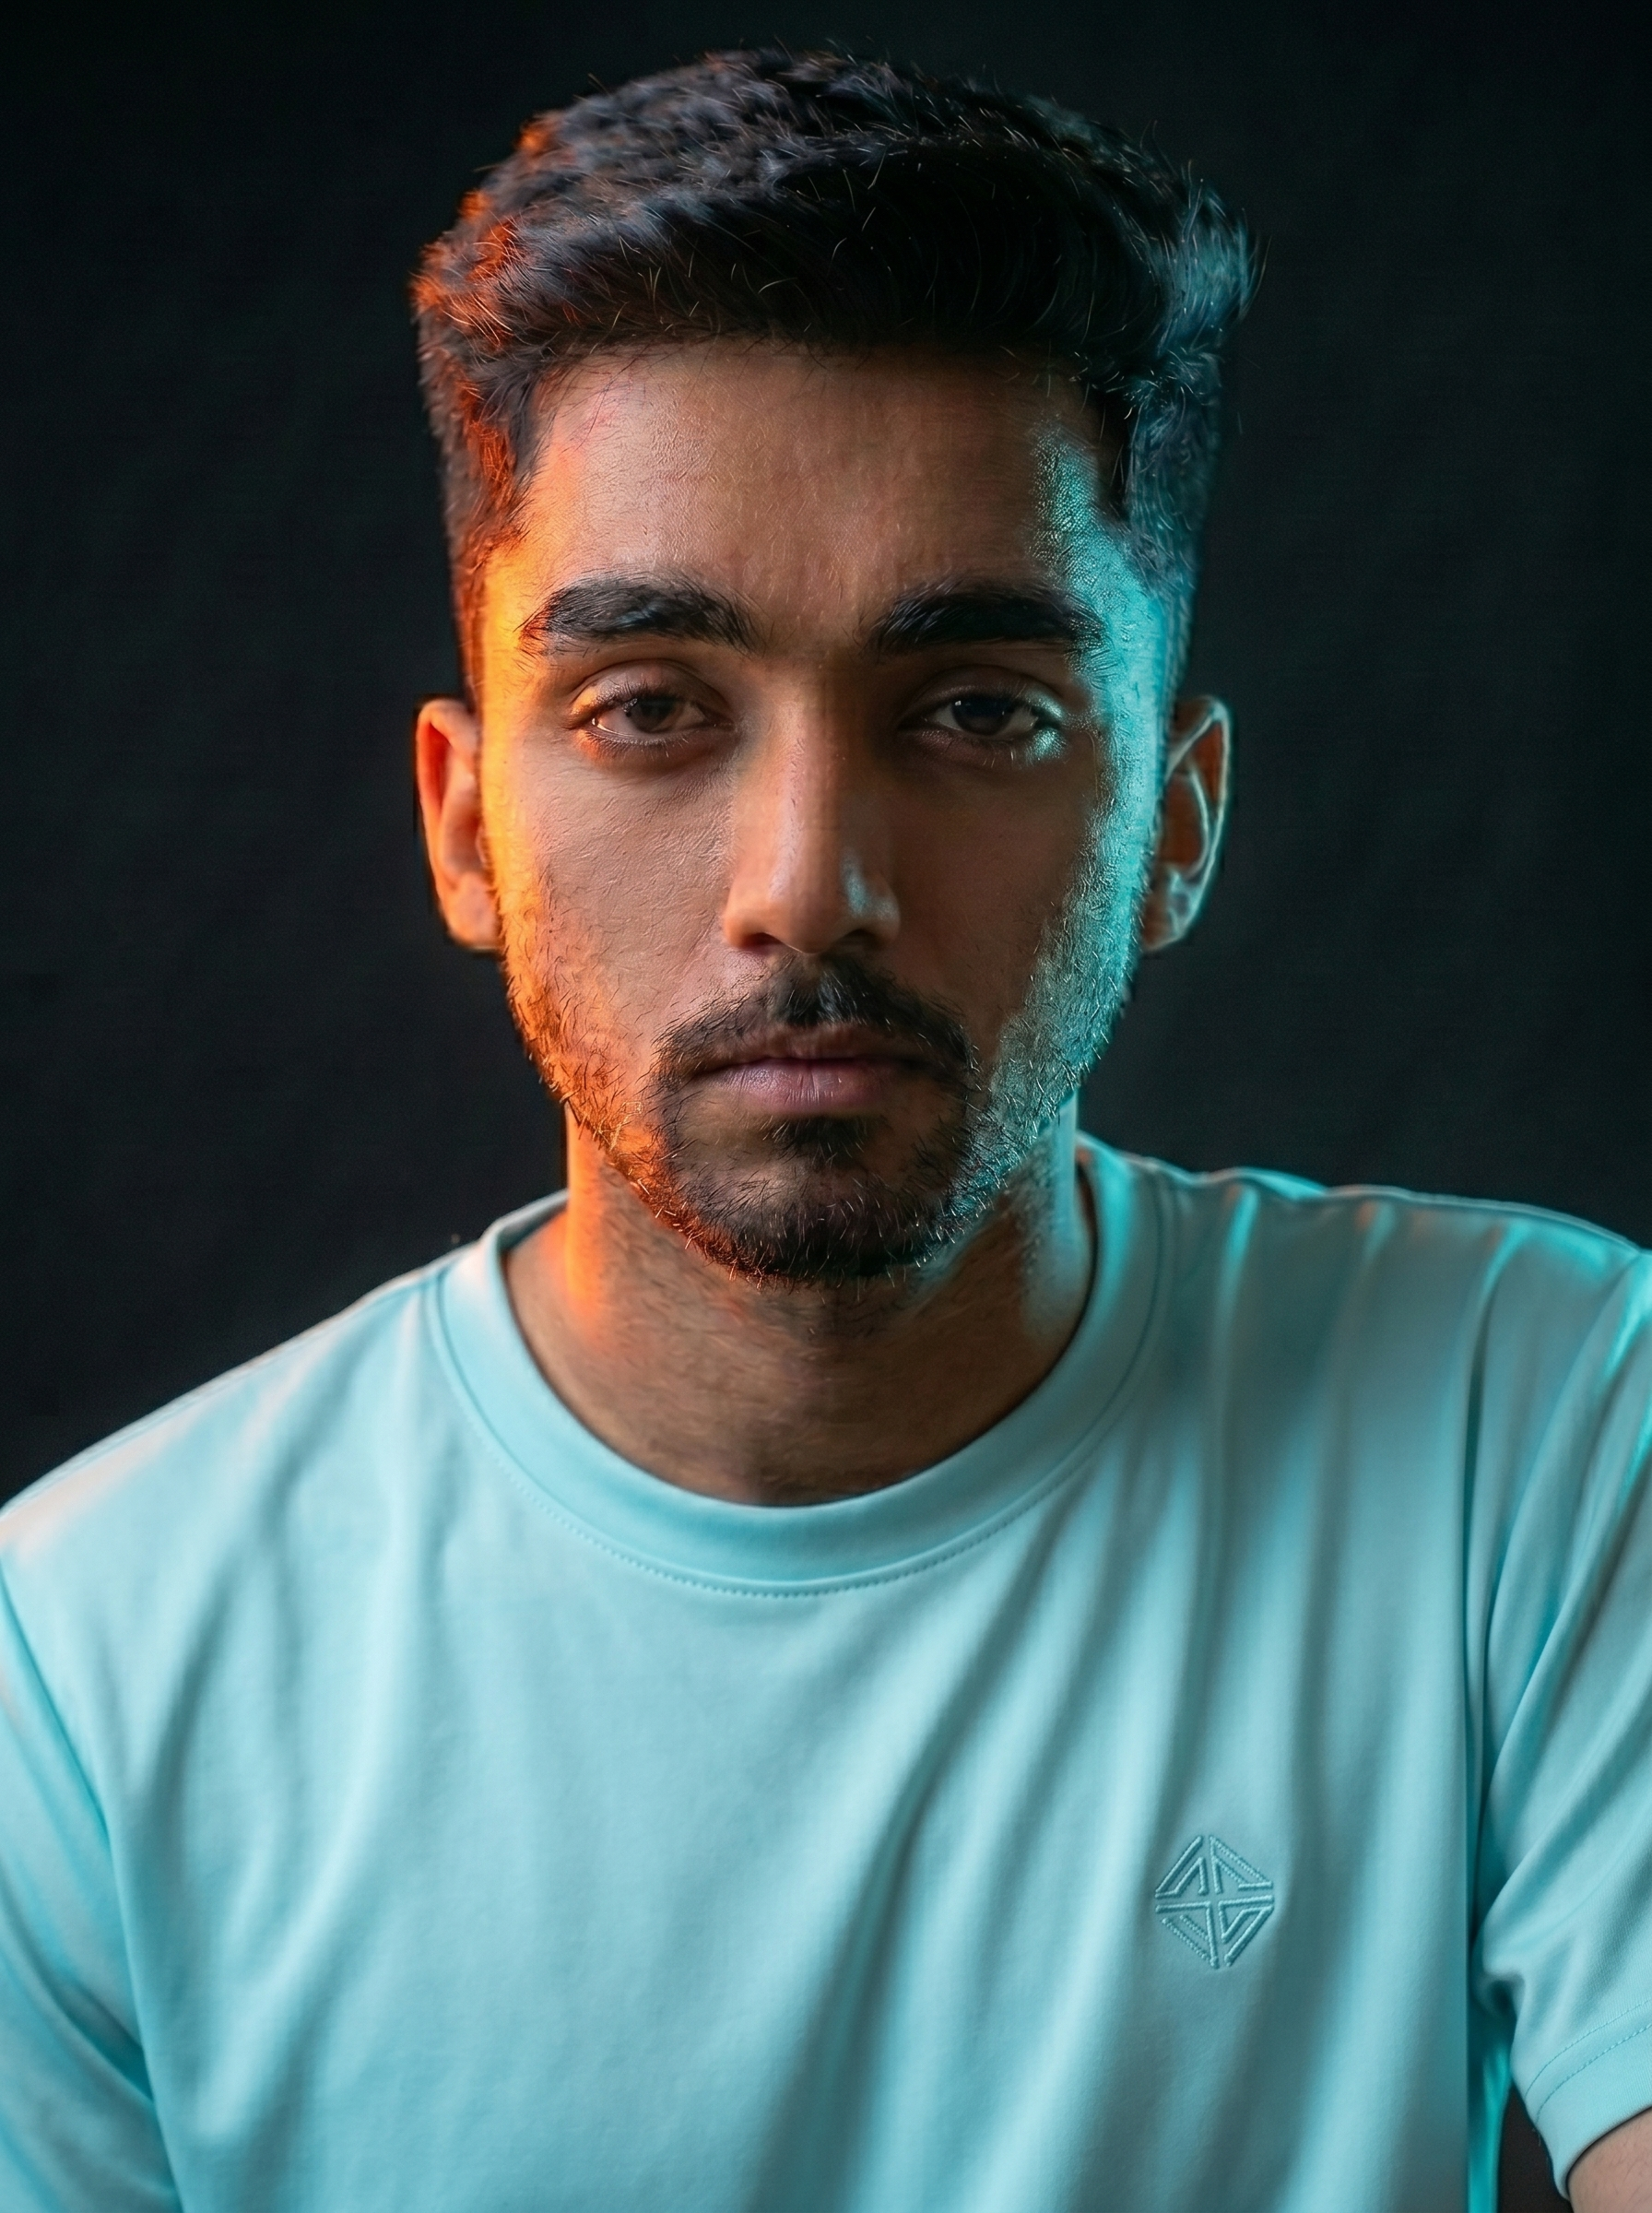
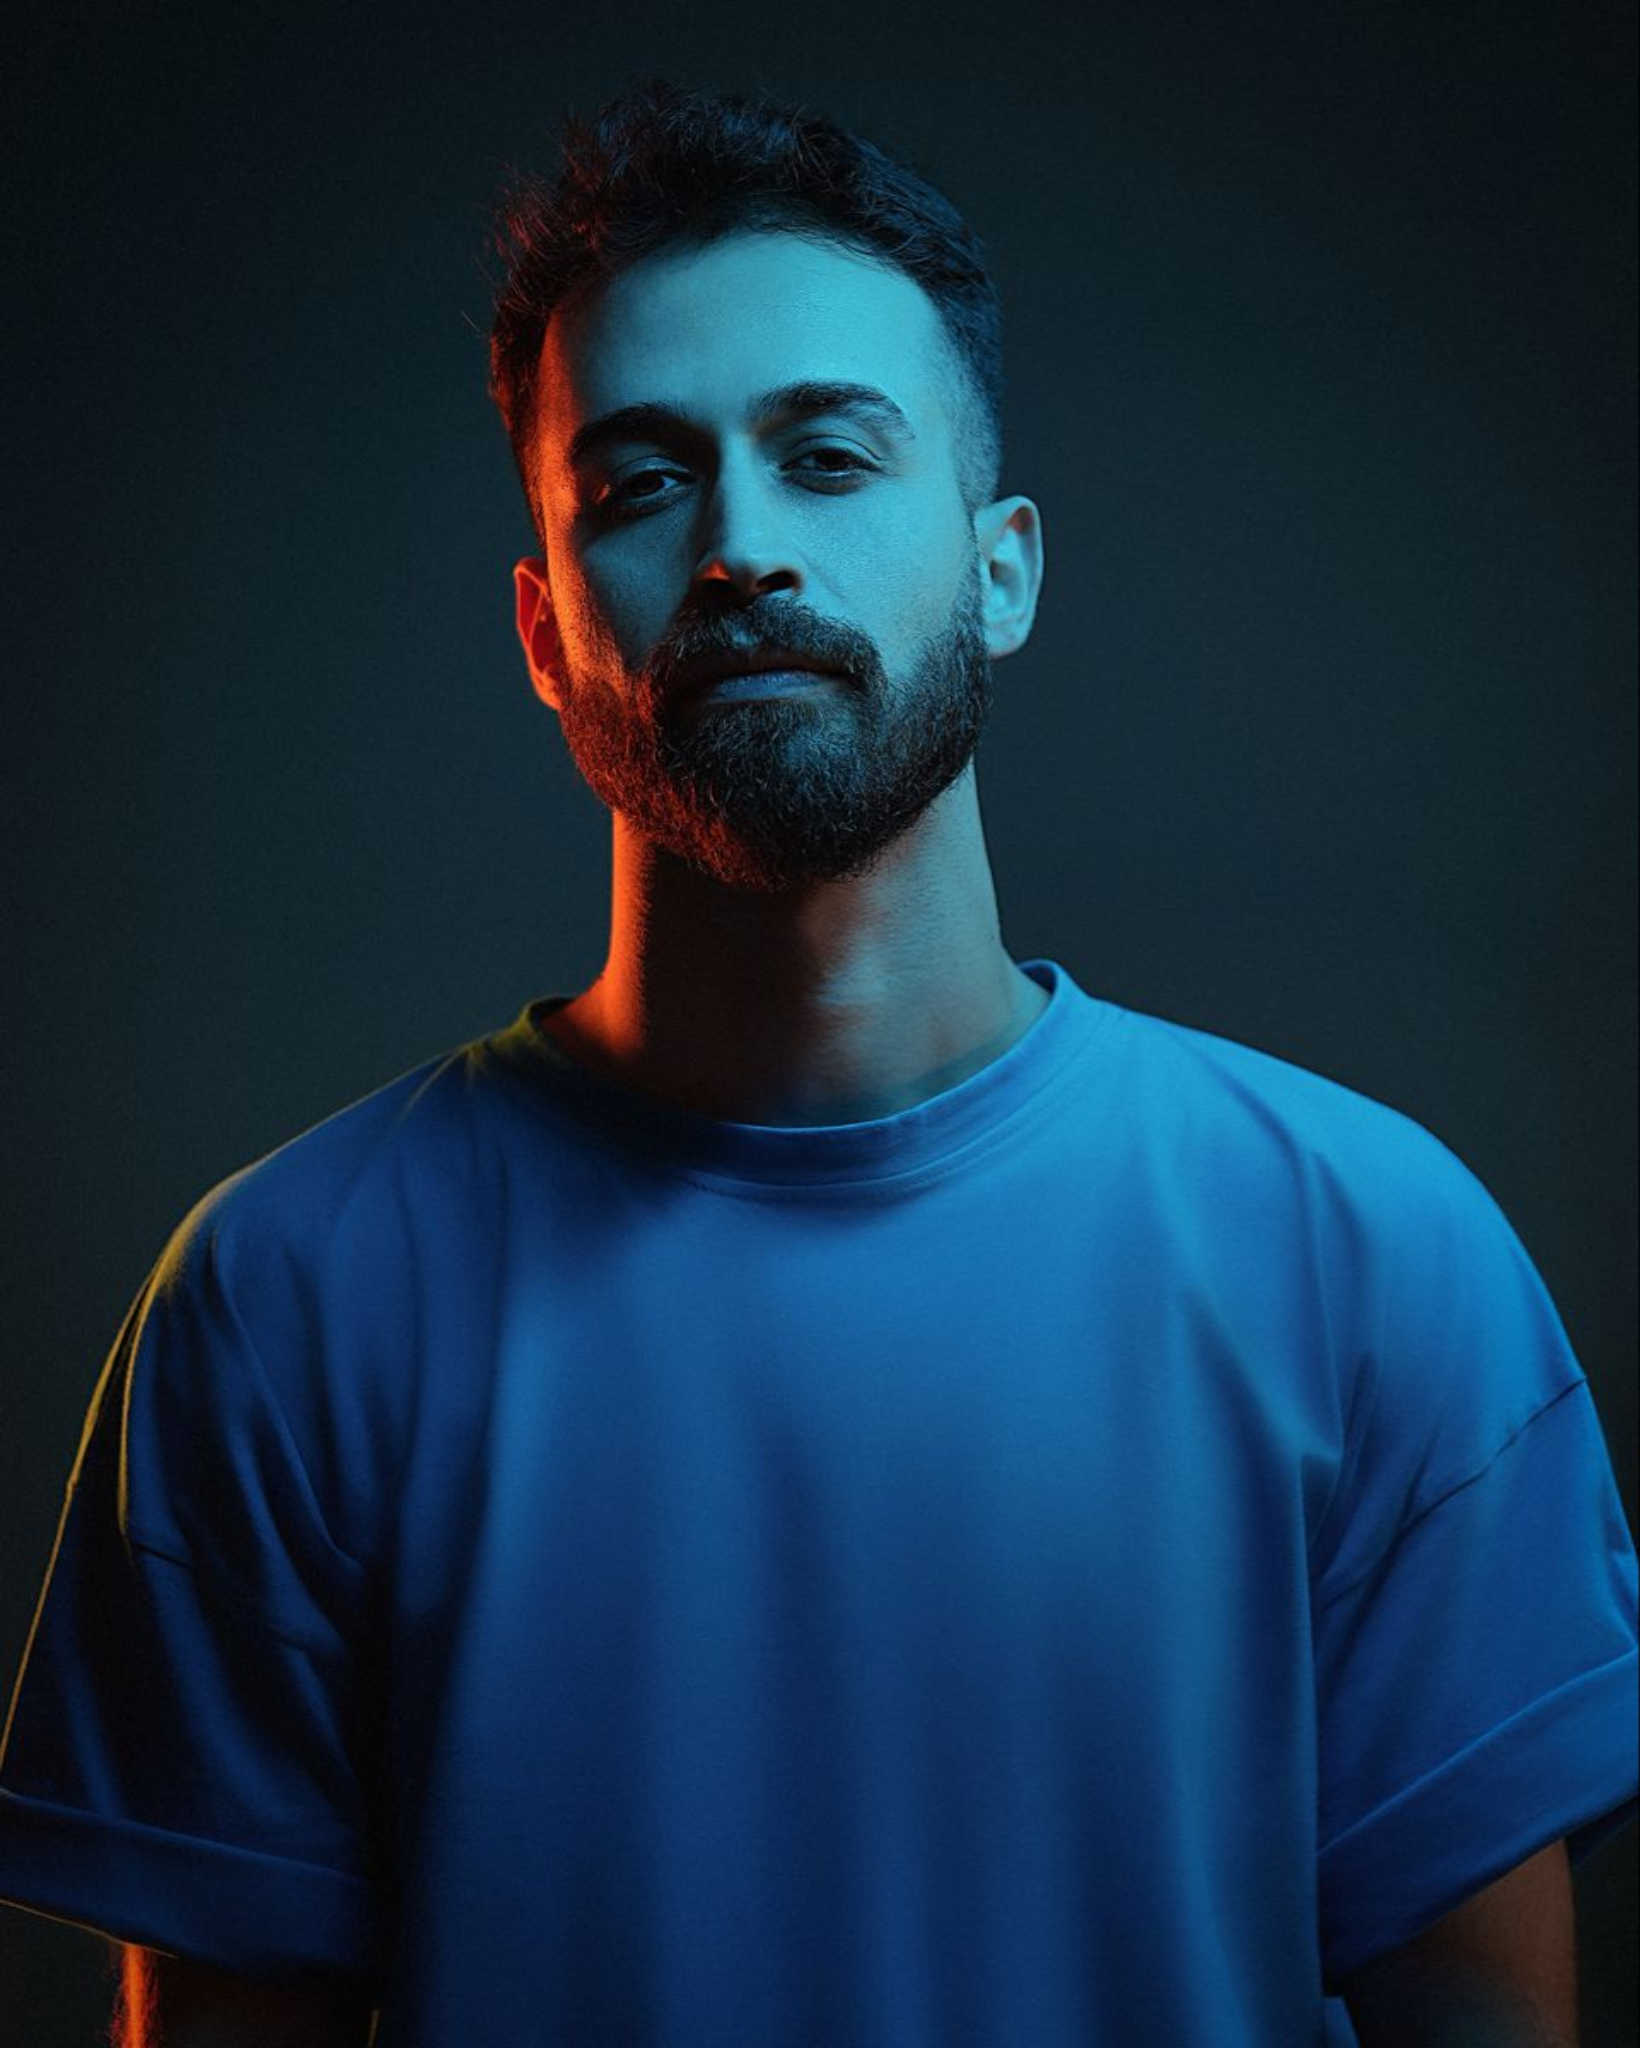
hello

diff --git a/src/components/Skills/Skills.jsx b/src/components/Skills/Skills.jsx
@@ -1,0 +1,57 @@
+import { Boxes , Code, Target, Zap, CircleCheck } from "lucide-react";
+import { motion } from "framer-motion";
+import React from 'react'
+
+const Skills = () => {
+  return (
+  <section id="Skills" className=" w-full py-20 md:py-32 relative bg-slate-900/50 ">
+          <div className="absolute top-0 right-0 w-1/2 h-full bg-gradient-to-l from-indigo-500/5 to-transparent pointer-events-none" />
+
+ <div className="container mx-auto px-6 md:px-20 max-w-7xl  relative z-10">
+<div className="heading flex flex-col items-center justify-center text-center mb-5 md:mb-20">
+          <motion.div
+            initial={{ opacity: 0, y: 25 }}
+            whileInView={{ opacity: 1, y: 0 }}
+            transition={{ duration: 0.5 }}
+            className="inline-flex items-center gap-2 px-4 py-2 rounded-full bg-slate-800/50 border border-slate-700 text-indigo-400 text-sm font-semibold mb-2">
+            <Boxes  className="w-4 h-4 relative" />
+            <span className="leading-none  relative top-[1px]">Technical Arsenal</span>
+          </motion.div>
+
+          <motion.div
+            initial={{ opacity: 0, y: 25 }}
+            whileInView={{ opacity: 1, y: 0 }}
+            transition={{ duration: 0.5, delay: 0.2 }}
+            className="flex flex-col text-3xl md:text-6xl px-4 py-2 -mb-4 ">
+            <h1 className="text-3xl md:text-5xl font-bold leading-tight text-white mb-5">
+              Skills & <span className="text-3xl md:text-5xl font-bold py-auto  leading-tight text-transparent bg-clip-text bg-gradient-to-r from-indigo-400 to-cyan-400 ">
+              Expertise
+            </span>
+            </h1>
+            
+          </motion.div>
+
+          <motion.div
+            initial={{ opacity: 0 }}
+            whileInView={{ opacity: 1, x: [-5, 5, -5] }}
+            transition={{
+              duration: 0.5,
+              x: {
+                duration: 1.9,
+                ease: "easeInOut",
+                repeat: Infinity,
+              },
+            }}
+            className="w-24 px-7 rounded-full h-1 bg-linear-to-r from-indigo-400 to bg-cyan-500"></motion.div>
+        </div>
+ <div className=" skiils grid grid-cols-1 md:grid-cols-2 lg:grid-cols-3 gap-8">
+    
+</div>
+</div>
+
+
+  </section>
+  )
+}
+
+export default Skills

diff --git a/src/components/About/About.jsx b/src/components/About/About.jsx
@@ -3,9 +3,9 @@ import { motion } from "framer-motion";
 import profile2 from "../../assets/profile2.png";
 
 const About = () => {
-  const strengths = ["Problem Solving", " Time management", "Quik learner"];
+  const strengths = ["Problem Solving", " Time management", "Quick learner"];
   return (
-    <section id="About py-20 md:py-32  relative">
+    <section id="About" className="py-20 md:py-32 relative -mt-15">
       <div className="container max-w-7xl mx-auto md:px-3">
         <div className="heading flex flex-col items-center justify-center text-center mb-5 md:mb-20">
           <motion.div
@@ -77,7 +77,6 @@ const About = () => {
                     alt="Profile"
                   />
                 </div>
-               
               </motion.div>
             </div>
           </div>
@@ -89,7 +88,6 @@ const About = () => {
             className="right lg:col-span-7 space-y-10">
             {/* Professional */}
             <div className="relative space-y-8">
-              
               <span className="absolute -left-8 top-0 bottom-0 w-1 bg-linear-to-b from-indigo-500 to-transparent rounded-full hidden md:block" />
               <h3 className="text-2xl font-semibold text-white flex items-center gap-3">
                 <Code className="w-6 h-6 text-indigo-400" />
@@ -131,11 +129,11 @@ const About = () => {
               <div className="flex flex-wrap items-center gap-3">
                 {strengths.map((strength, key) => (
                   <motion.div
-                  initial={{opacity: 0,scale:0.9}}
-                  whileInView={{opacity:1,scale:1}}
-                  transition={{duration: 0.3 ,delay:key*0.1}}
-                  
-                  key={key} className="flex items-center text-white gap-2 text-md  px-4 py-2 rounded-2xl bg-slate-800/40 border border-slate-700/50 text-slate-300 text-sm font-medium hover:bg-slate-800 hover:border-slate-600 transition-all shadow-sm">
+                    initial={{ opacity: 0, scale: 0.9 }}
+                    whileInView={{ opacity: 1, scale: 1 }}
+                    transition={{ duration: 0.3, delay: key * 0.1 }}
+                    key={key}
+                    className="flex items-center text-white gap-2 text-md  px-4 py-2 rounded-2xl bg-slate-800/40 border border-slate-700/50 text-slate-300 text-sm font-medium hover:bg-slate-800 hover:border-slate-600 transition-all shadow-sm">
                     <CircleCheck size={18} className="text-indigo-400" />
                     {strength}
                   </motion.div>

diff --git a/src/App.jsx b/src/App.jsx
@@ -1,6 +1,7 @@
 import Hero from "./components/Hero/Hero";
 import Navbar from "./components/Navbar/Navbar";
 import About from "./components/About/About";
+import Skills from "./components/Skills/Skills";
 import './App.css'
 
 
@@ -22,6 +23,7 @@ export default function App() {
         <main className="flex flex-col items-center  ">
           <Hero />
           <About/>
+          <Skills/>
         </main>
       </div>
     </div>

diff --git a/src/components/Hero/Hero.jsx b/src/components/Hero/Hero.jsx
@@ -1,5 +1,4 @@
 import { motion } from "framer-motion";
-import profile1 from "../../assets/profile1.png";
 import profile2 from "../../assets/profile2.png";
 
 